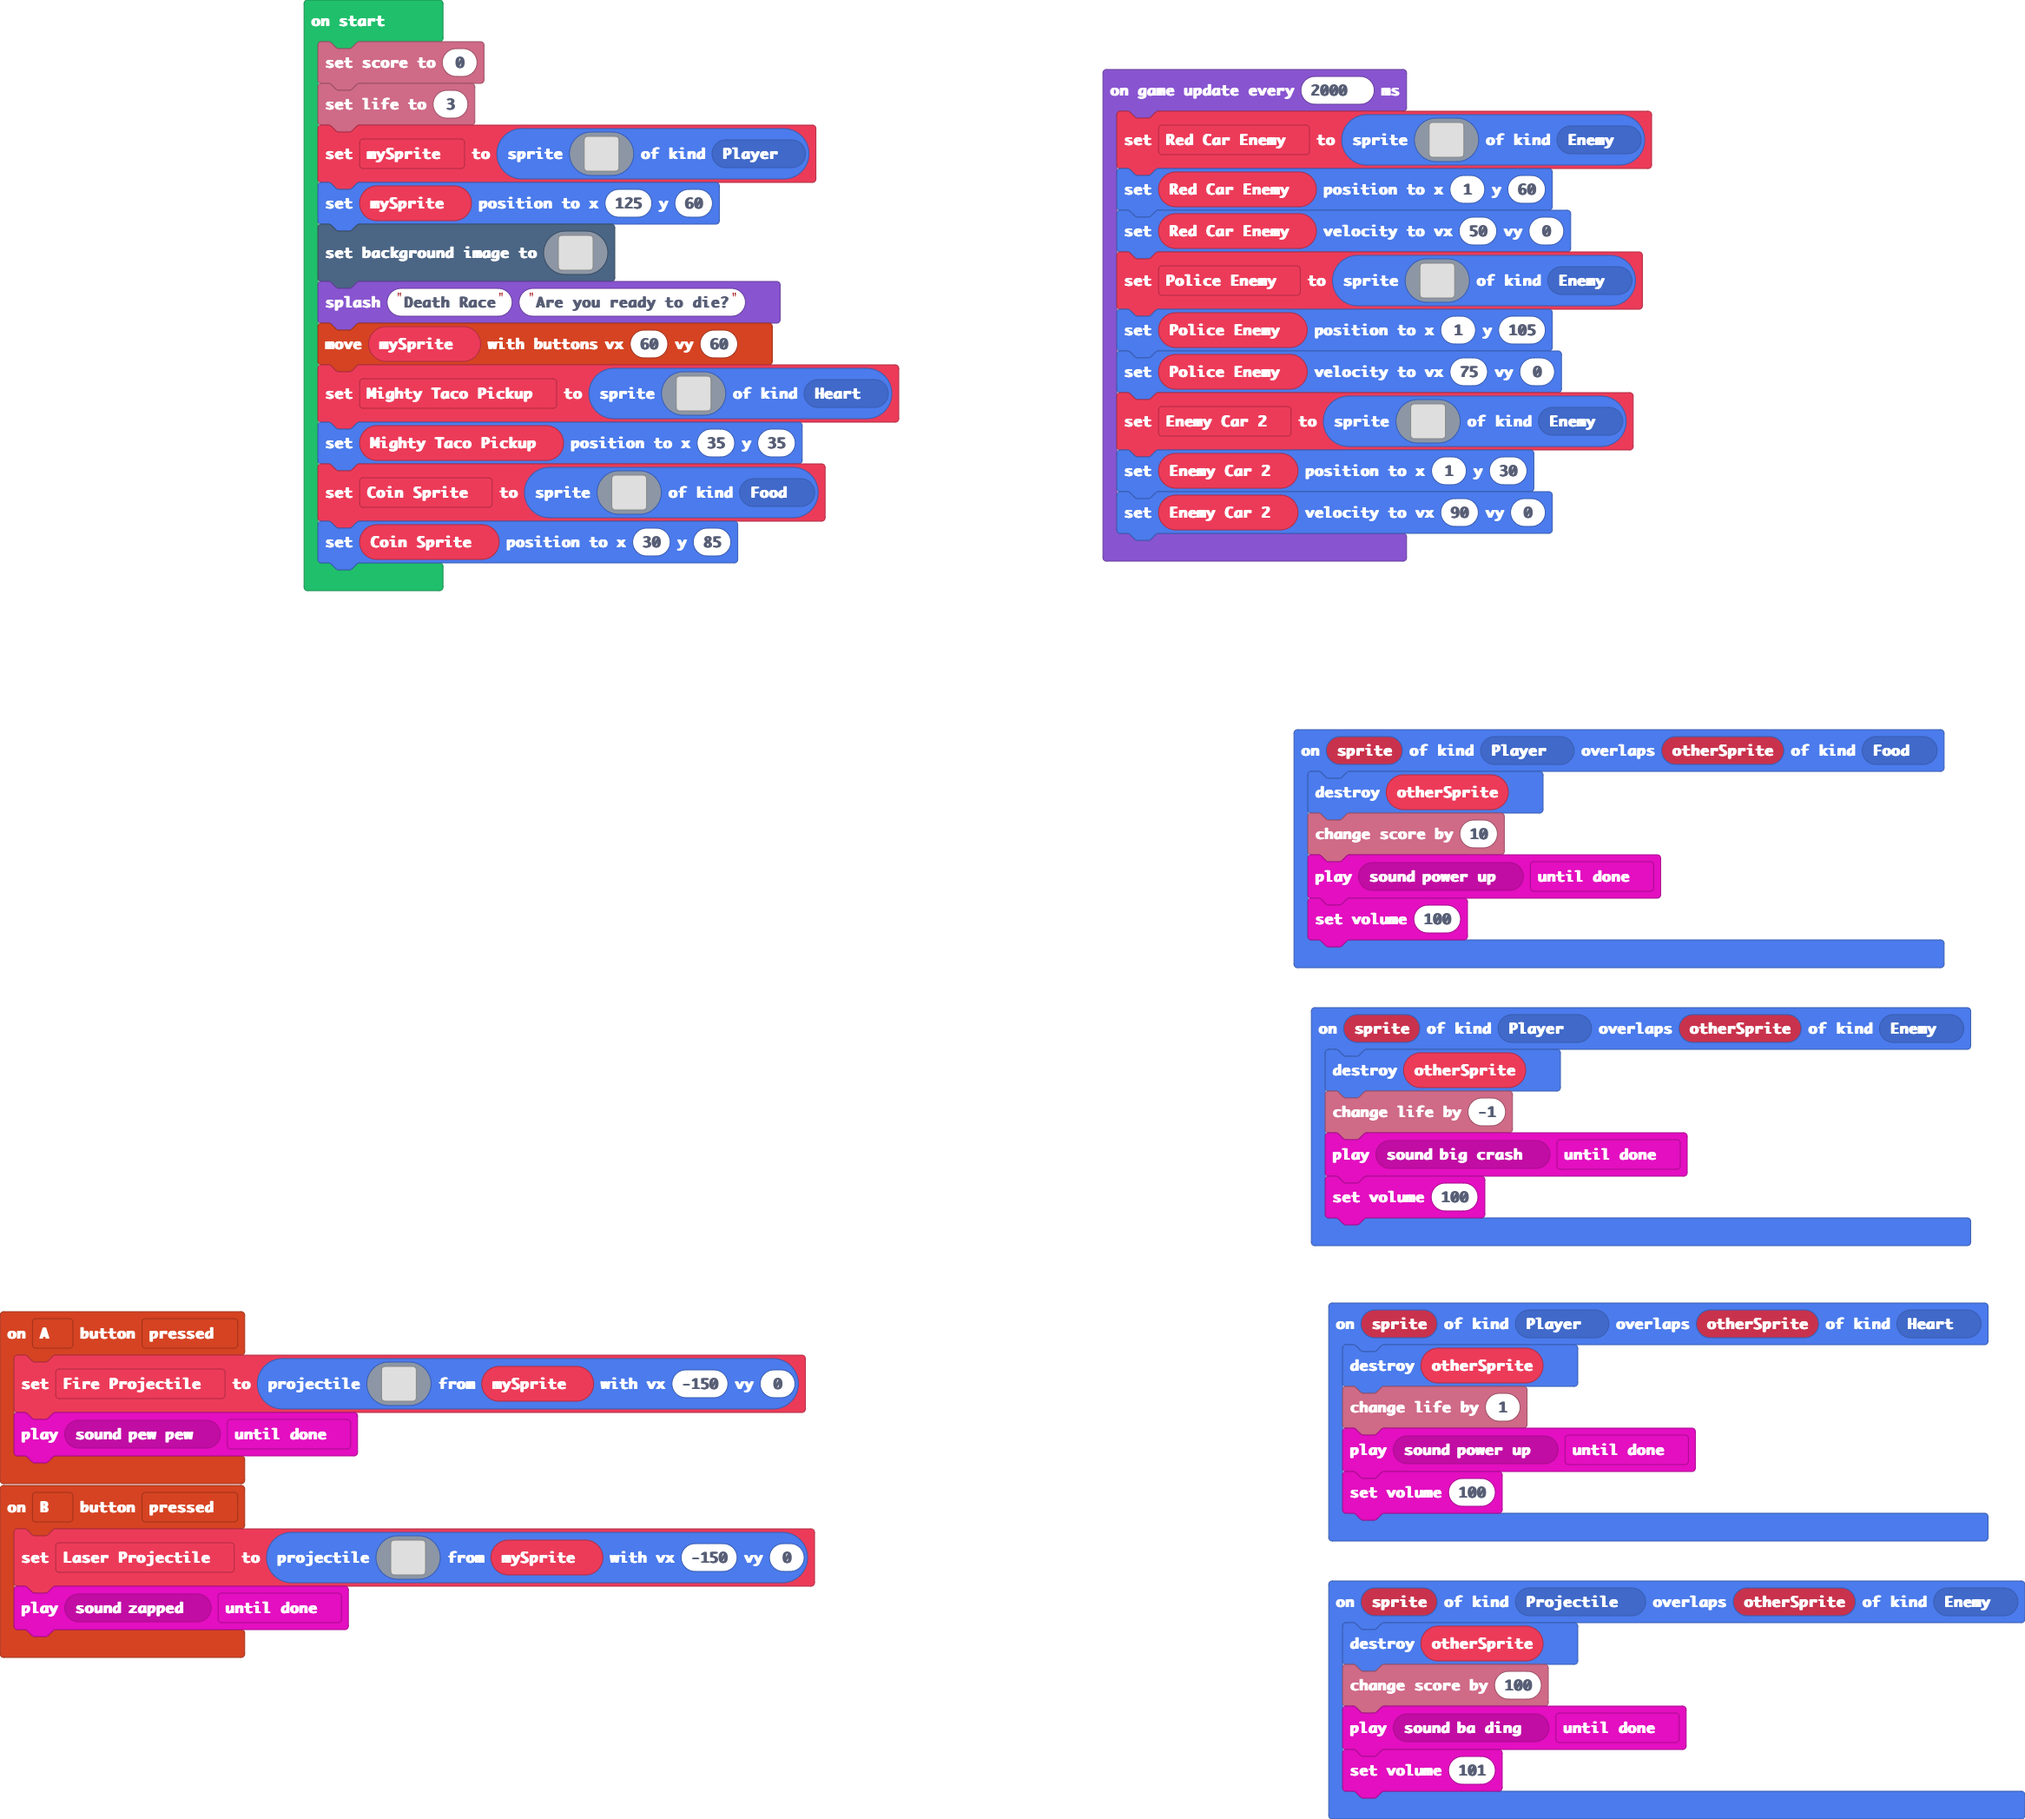
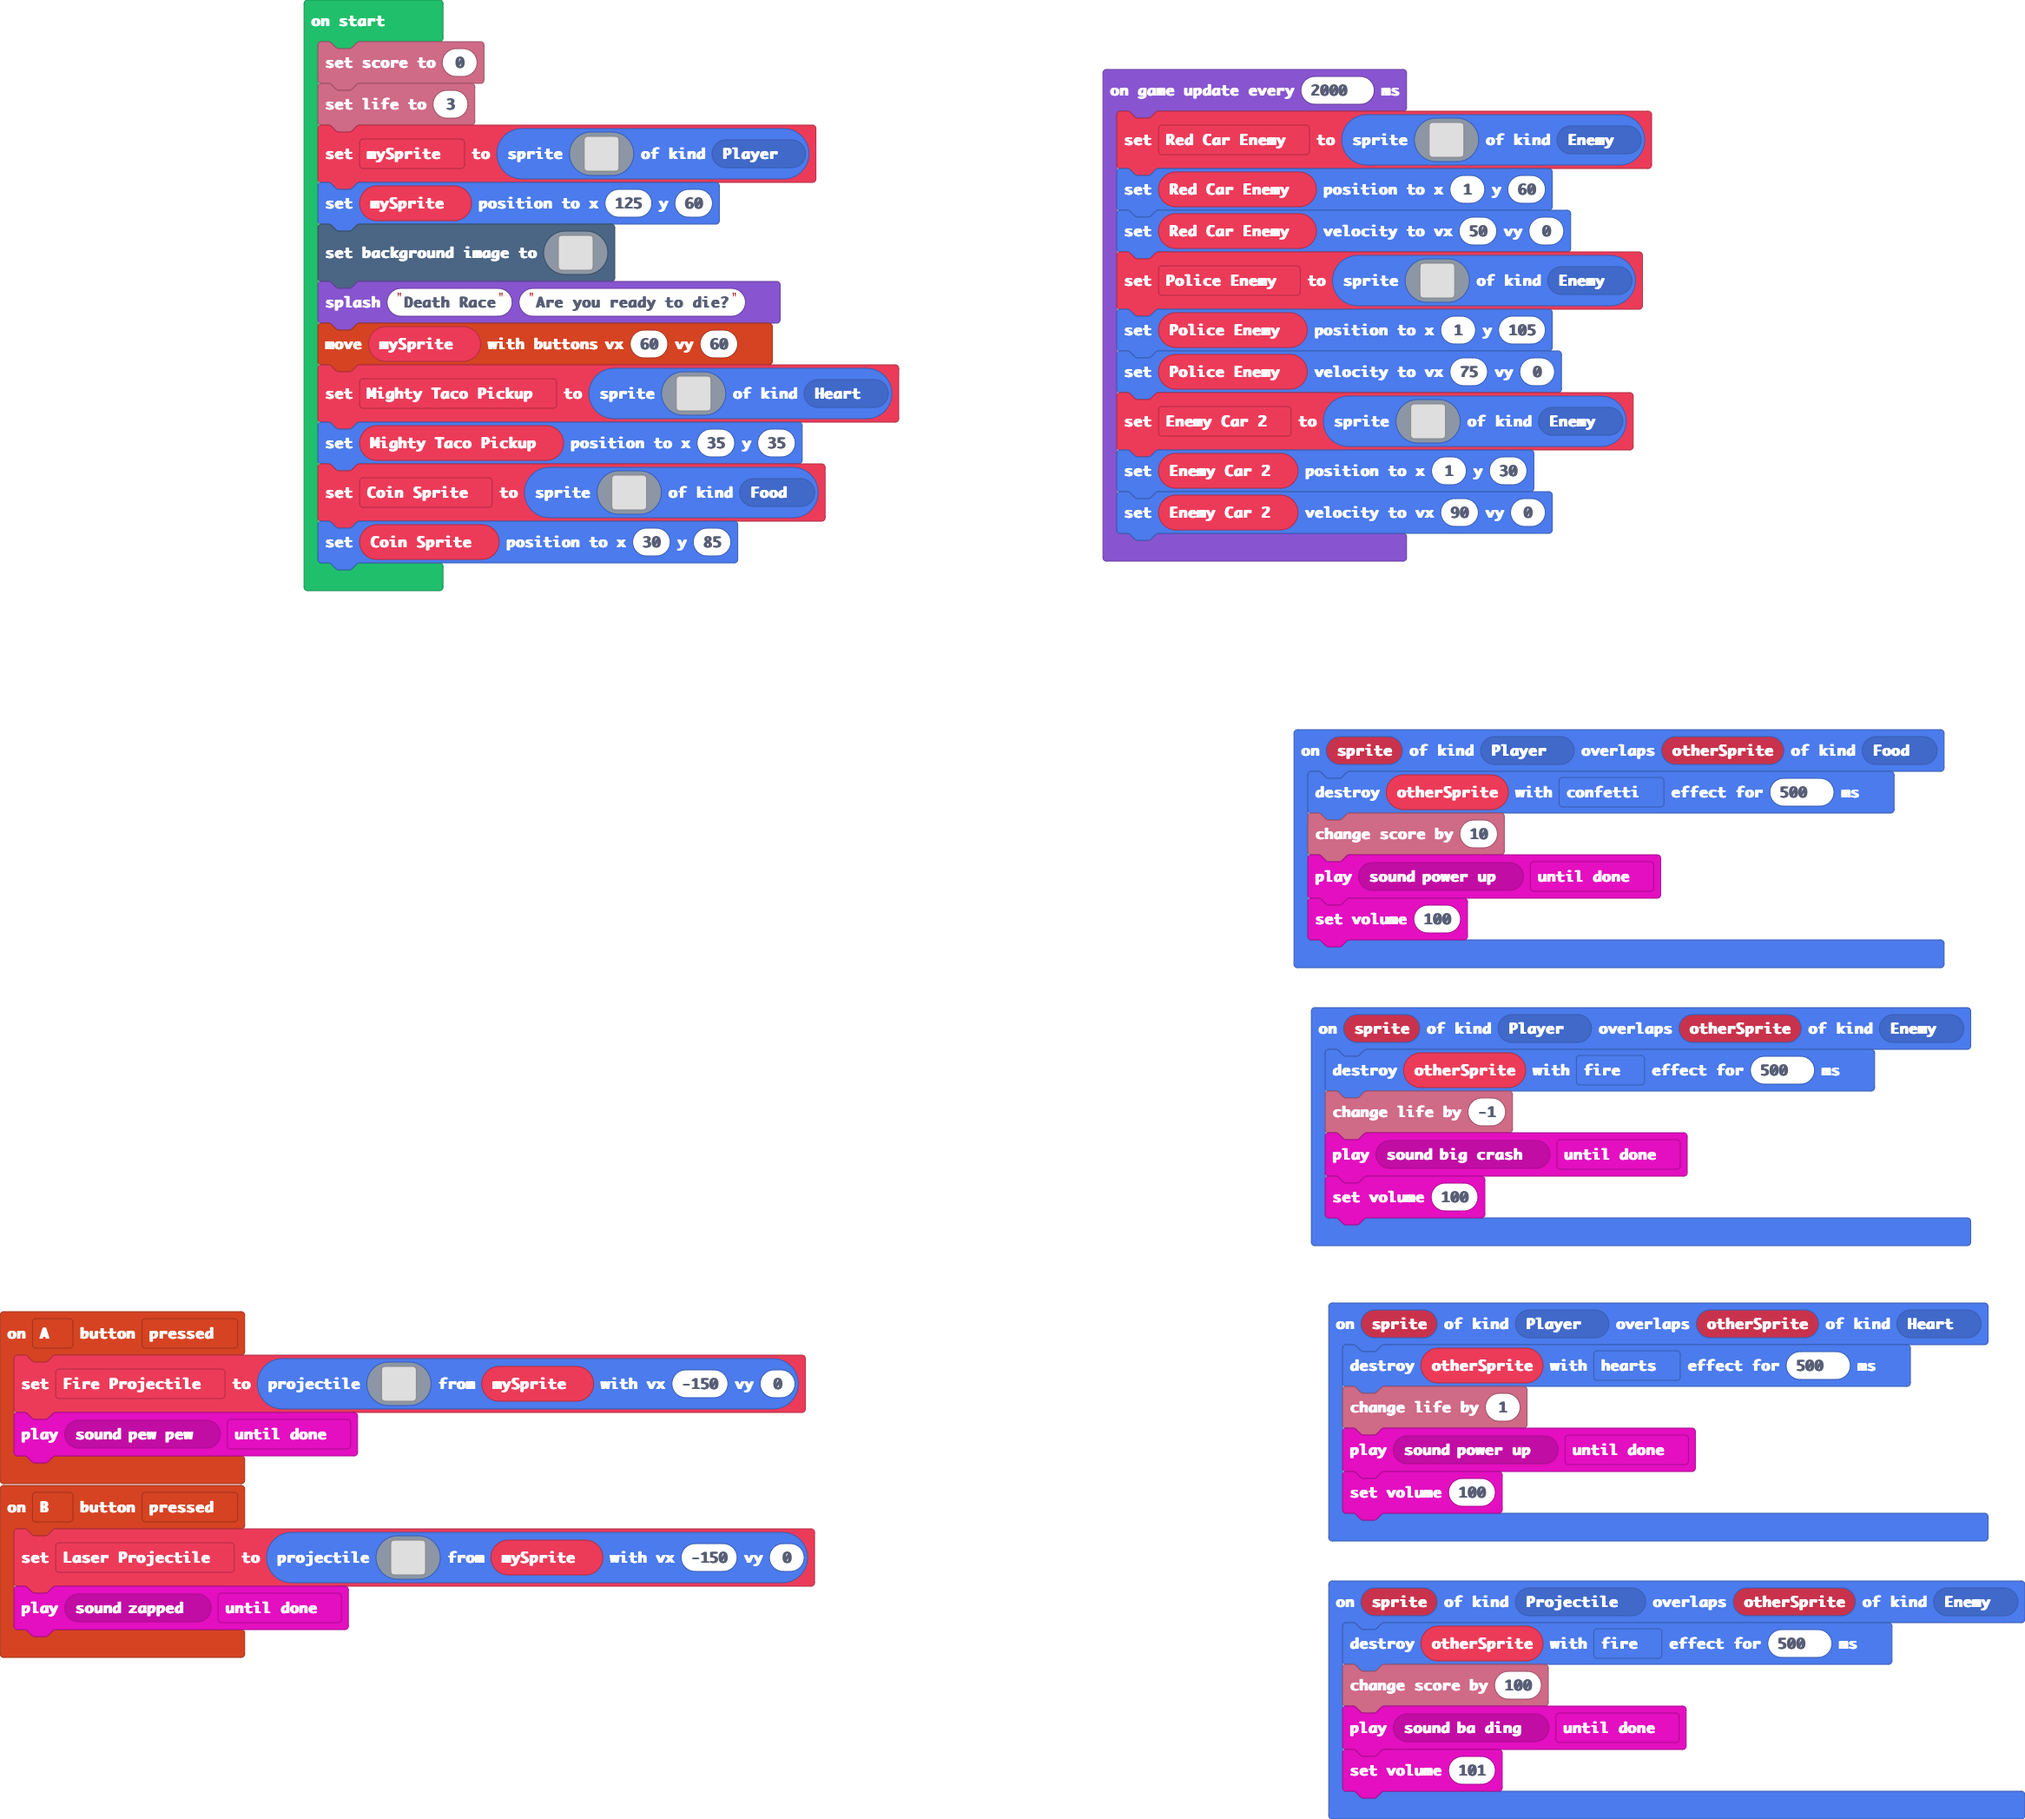
Update main.blocks, main.ts

diff --git a/main.ts b/main.ts
@@ -44,25 +44,25 @@ controller.A.onEvent(ControllerButtonEvent.Pressed, function () {
     music.play(music.melodyPlayable(music.pewPew), music.PlaybackMode.UntilDone)
 })
 sprites.onOverlap(SpriteKind.Player, SpriteKind.Heart, function (sprite, otherSprite) {
-    sprites.destroy(otherSprite)
+    sprites.destroy(otherSprite, effects.hearts, 500)
     info.changeLifeBy(1)
     music.play(music.melodyPlayable(music.powerUp), music.PlaybackMode.UntilDone)
     music.setVolume(100)
 })
 sprites.onOverlap(SpriteKind.Player, SpriteKind.Food, function (sprite, otherSprite) {
-    sprites.destroy(otherSprite)
+    sprites.destroy(otherSprite, effects.confetti, 500)
     info.changeScoreBy(10)
     music.play(music.melodyPlayable(music.powerUp), music.PlaybackMode.UntilDone)
     music.setVolume(100)
 })
 sprites.onOverlap(SpriteKind.Projectile, SpriteKind.Enemy, function (sprite, otherSprite) {
-    sprites.destroy(otherSprite)
+    sprites.destroy(otherSprite, effects.fire, 500)
     info.changeScoreBy(100)
     music.play(music.melodyPlayable(music.baDing), music.PlaybackMode.UntilDone)
     music.setVolume(101)
 })
 sprites.onOverlap(SpriteKind.Player, SpriteKind.Enemy, function (sprite, otherSprite) {
-    sprites.destroy(otherSprite)
+    sprites.destroy(otherSprite, effects.fire, 500)
     info.changeLifeBy(-1)
     music.play(music.melodyPlayable(music.bigCrash), music.PlaybackMode.UntilDone)
     music.setVolume(100)
